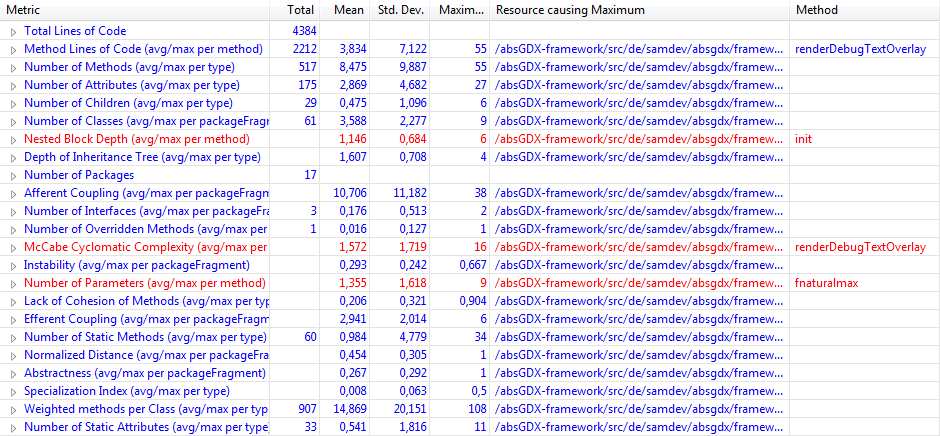
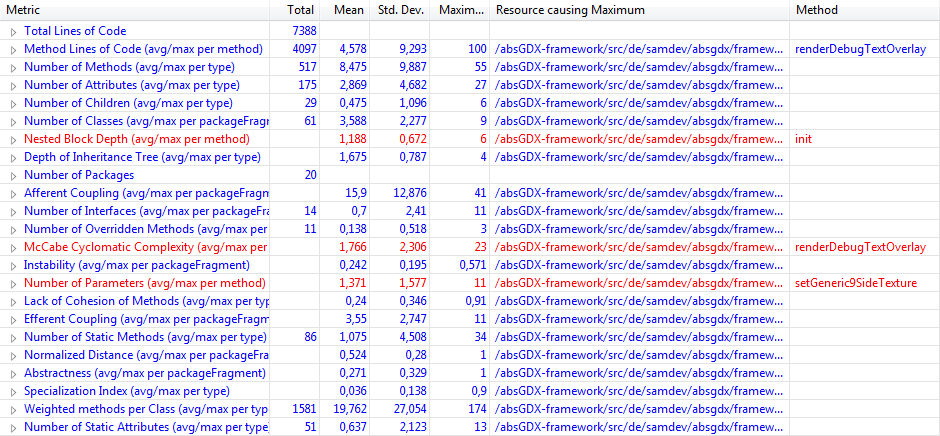
Updated metrics.tex (new graphic, new statictsics)

diff --git a/content/metrics.tex b/content/metrics.tex
@@ -1,20 +1,20 @@
 \paragraph{Code Metrics}
 
-Um eine übersicht über den aktuellen Stand unseres Codes zu erhalten setzten wir das Metrics Tool \textbf{Metrics 1.3.9} ein. 
+Um eine Übersicht über den aktuellen Stand unseres Codes zu erhalten setzten wir das Metrics Tool \textbf{Metrics 1.3.9} ein. 
 
-\quickfigure{absGDX Metrics}{metrics}{1.0} %TODO UPDATE ME
+\quickfigure{absGDX Metrics}{metrics}{1.0}
 
 Es zeigt eine Reihe an Statistiken über den Quellcode an und warnt wenn Teile des Codes komplex werden. 
 Die Warnungen sind jedoch nicht immer korrekt, in unserem Beispiel sind drei Methoden mit Problemen markiert, wir haben uns jedoch bei allen drei entschieden sie so zu lassen. Zwar sehen sie rein statistisch sehr komplex aus, jedoch sind sie aus einer menschlichen Sichtweise sehr gut zu lesen.
 
-Trotzdem sind die Metriken nützlich um schnell und einfach einen überblick über den aktuellen Stand zu bekommen und eventuelle Problemstellen zu identifizieren
+Trotzdem sind die Metriken nützlich um schnell und einfach einen Überblick über den aktuellen Stand zu bekommen und eventuelle Problemstellen zu identifizieren
 
 \paragraph{Test Coverage}
 
 Da wir Unit Tests mit jUnit einsetzen, ist eine interessante Frage wie viele Statements von den Unit Tests abgedeckt werden.
 Das Code Coverage Tool \textbf{EclEmma} analysiert hierfür unsere Tests und zeigt - nach Paket sortiert - jeweils an wie viele Statements abgedeckt sind
 
-\quickfigure{absGDX Test Coverage}{coverage}{1.0} %TODO UPDATE ME
+\quickfigure{absGDX Test Coverage}{coverage}{1.0}
 
 Wie hier zu sehen ist haben wir keine hundert prozentige Testabdeckung. Trotzdem sind wichtige und fehleranfällige Pakete wie \ti{collisiondetection}, \ti{math} oder \ti{mapscaleresolver} fast vollständig abgedeckt.
 Für die Zukunft kann es durchaus von Vorteil sein noch mehr des Quellcodes mit Tests abzudecken. Jedoch sind vorerst die wichtigsten Methoden schon abgedeckt.
